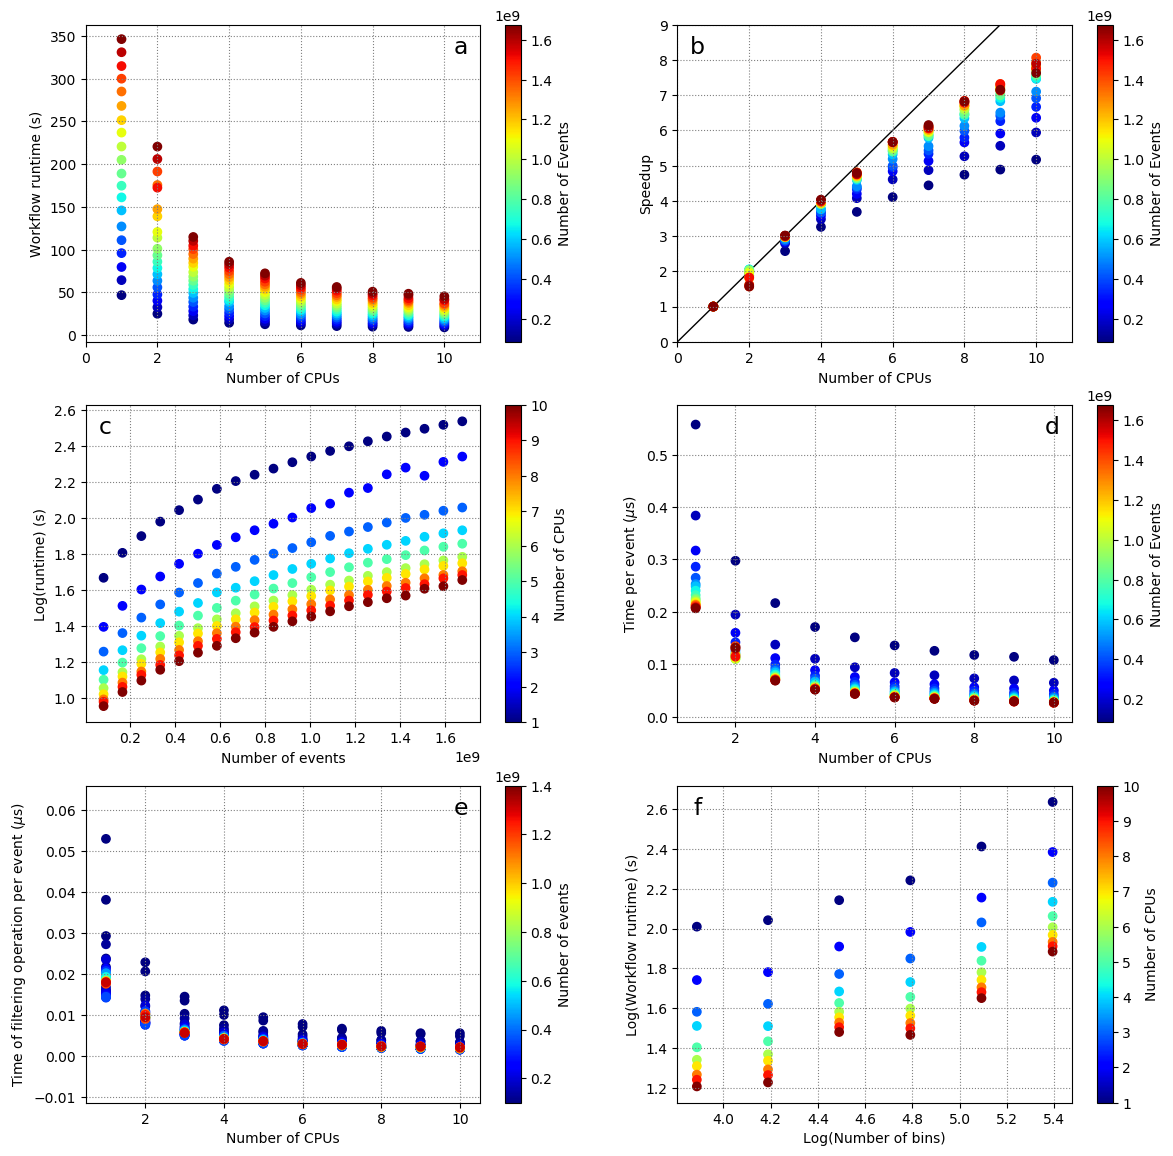
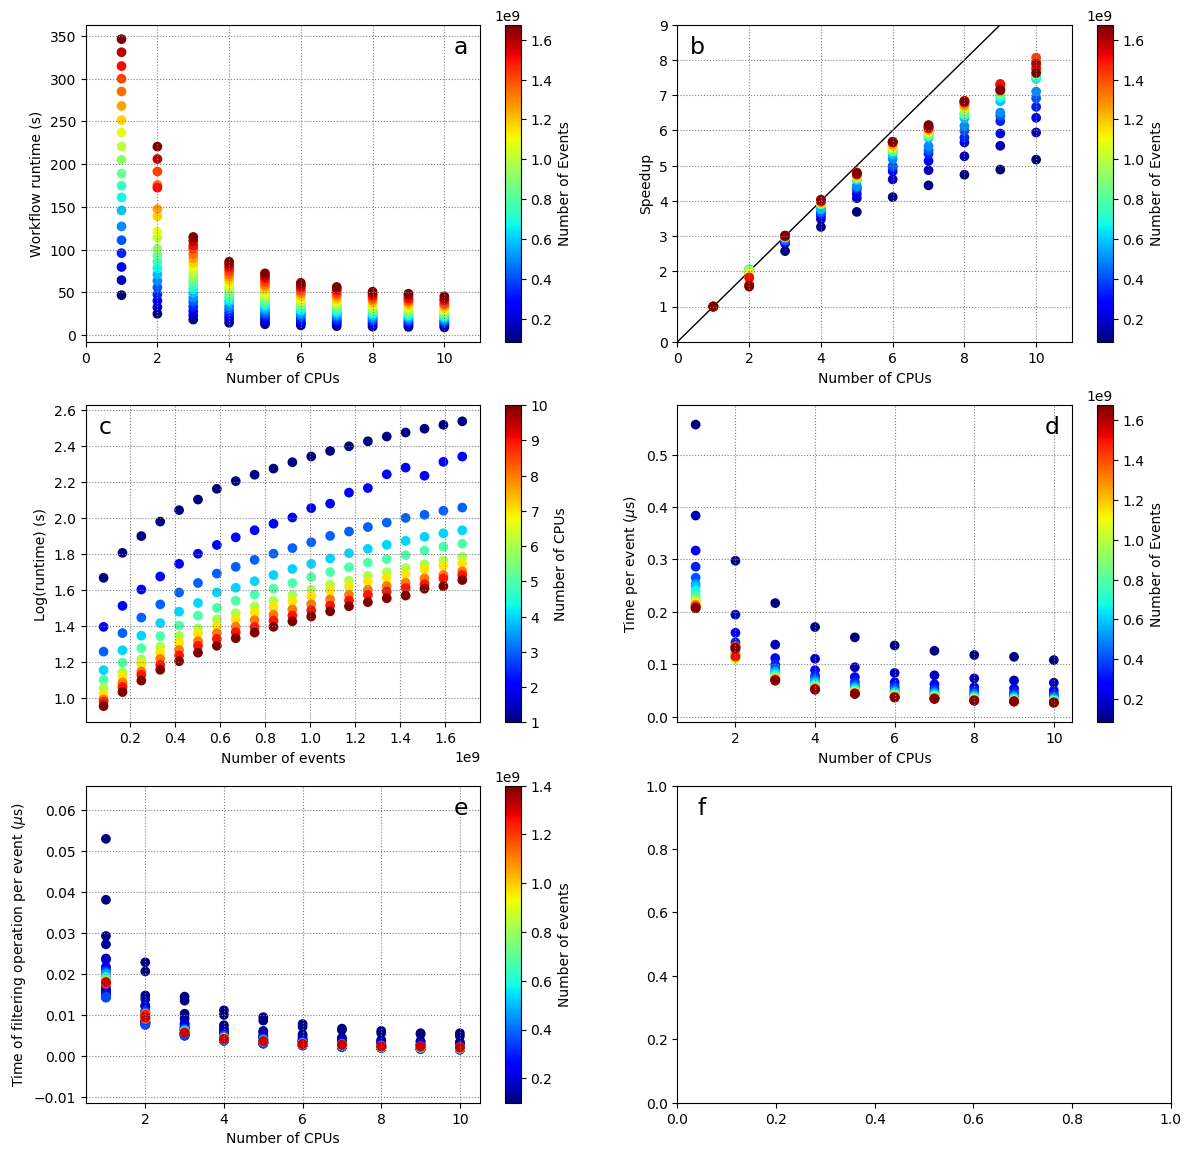
seperate figure for varying Nbins

diff --git a/benchmarks/plot_SNSPowderReduction_bench.py b/benchmarks/plot_SNSPowderReduction_bench.py
@@ -40,6 +40,8 @@ import numpy as np
 #fin.close()
 #fout.close()
 
+cmap1 = "jet"
+
 # Now load data and plot
 
 data = np.loadtxt("SNSPowderReduction_bench.txt")
@@ -63,8 +65,8 @@ ax6 = fig.add_subplot(326)
 
 Nevents = data[:,4]+data[:,5]
 
-s1 = ax1.scatter(data[:,1],data[:,3],c=Nevents,cmap='jet')
-#s1 = ax1.scatter(data[:,1],np.log10(data[:,3]),c=Nevents,cmap='jet')
+s1 = ax1.scatter(data[:,1],data[:,3],c=Nevents,cmap=cmap1)
+#s1 = ax1.scatter(data[:,1],np.log10(data[:,3]),c=Nevents,cmap=cmap1)
 ax1.set_xlim([0,11])
 ax1.set_xlabel("Number of CPUs")
 ax1.set_ylabel("Workflow runtime (s)")
@@ -84,7 +86,7 @@ for j in range(fact_max):
 #maxfact = int(np.amax(data[:,2]))
 #print time0
 
-s2 = ax2.scatter(data[:,1],time0/data[:,3],c=Nevents,cmap='jet')
+s2 = ax2.scatter(data[:,1],time0/data[:,3],c=Nevents,cmap=cmap1)
 ax2.plot([0,11],[0,11],color='k',zorder=-5,lw=1,label="ideal")
 cb2 = plt.colorbar(s2,ax=ax2)
 cb2.ax.set_ylabel("Number of Events")
@@ -100,8 +102,8 @@ ax2.set_ylabel("Speedup")
 
 
 
-sc = ax3.scatter(Nevents,np.log10(data[:,3]),c=data[:,1],cmap='jet')
-#sc = ax3.scatter(Nevents,data[:,3],c=data[:,1],cmap='jet')
+sc = ax3.scatter(Nevents,np.log10(data[:,3]),c=data[:,1],cmap=cmap1)
+#sc = ax3.scatter(Nevents,data[:,3],c=data[:,1],cmap=cmap1)
 ax3.set_xlabel("Number of events")
 ax3.set_ylabel("Log(runtime) (s)")
 cb3 = plt.colorbar(sc,ax=ax3)
@@ -109,15 +111,15 @@ cb3.ax.set_ylabel("Number of CPUs")
 
 #print data[:,3]/data[:,4]
 
-sa = ax4.scatter(data[:,1],1.0e6*data[:,3]/Nevents,c=Nevents,cmap='jet')
+sa = ax4.scatter(data[:,1],1.0e6*data[:,3]/Nevents,c=Nevents,cmap=cmap1)
 #sb = ax4.scatter(data[:,1],1.0e6*data[:,3]/data[:,5],color='b')
 ax4.set_xlabel("Number of CPUs")
 ax4.set_ylabel(r"Time per event ($\mu$s)")
 cb4 = plt.colorbar(sa,ax=ax4)
 cb4.ax.set_ylabel("Number of Events")
 
-s5 = ax5.scatter(data[:,1],1.0e6*data[:,6]/data[:,4],c=data[:,4],vmin=0.1e9,vmax=1.4e9,cmap='jet')
-ax5.scatter(data[:,1],1.0e6*data[:,7]/data[:,5],c=data[:,5],vmin=0.1e9,vmax=1.4e9,cmap='jet')
+s5 = ax5.scatter(data[:,1],1.0e6*data[:,6]/data[:,4],c=data[:,4],vmin=0.1e9,vmax=1.4e9,cmap=cmap1)
+ax5.scatter(data[:,1],1.0e6*data[:,7]/data[:,5],c=data[:,5],vmin=0.1e9,vmax=1.4e9,cmap=cmap1)
 #sb = ax4.scatter(data[:,1],1.0e6*data[:,3]/data[:,5],color='b')
 ax5.set_xlabel("Number of CPUs")
 ax5.set_ylabel(r"Time of filtering operation per event ($\mu$s)")
@@ -127,19 +129,20 @@ cb5.ax.set_ylabel("Number of events")
 
 
 
-s6 = ax6.scatter(np.log10(binData[:,3]),np.log10(binData[:,2]),c=binData[:,1],cmap='jet')
-#s1 = ax1.scatter(data[:,1],np.log10(data[:,3]),c=Nevents,cmap='jet')
-#ax6.set_xlim([0,11])
-#ax6.set_xscale("log", nonposx='clip')
-#ax6.set_yscale("log", nonposy='clip')
-ax6.set_xlabel("Log(Number of bins)")
-ax6.set_ylabel("Log(Workflow runtime) (s)")
-#ax1.set_ylabel("Log(runtime) (s)")
-cb6 = plt.colorbar(s6,ax=ax6)
-cb6.ax.set_ylabel("Number of CPUs")
+#s6 = ax6.scatter(np.log10(binData[:,3]),np.log10(binData[:,2]),c=binData[:,1],cmap=cmap1)
+##s1 = ax1.scatter(data[:,1],np.log10(data[:,3]),c=Nevents,cmap=cmap1)
+##ax6.set_xlim([0,11])
+##ax6.set_xscale("log", nonposx='clip')
+##ax6.set_yscale("log", nonposy='clip')
+#ax6.set_xlabel("Log(Number of bins)")
+#ax6.set_ylabel("Log(Workflow runtime) (s)")
+##ax1.set_ylabel("Log(runtime) (s)")
+#cb6 = plt.colorbar(s6,ax=ax6)
+#cb6.ax.set_ylabel("Number of CPUs")
 
 
-
+#for i in range(np.shape(binData)[0]):
+    #print((binData[i,3]/binData[i,2])/binData[i,1],"bins/s/core",binData[i,3],binData[i,2])
 
 
 
@@ -151,7 +154,7 @@ ax2.grid(True,color='gray',linestyle='dotted')
 ax3.grid(True,color='gray',linestyle='dotted')
 ax4.grid(True,color='gray',linestyle='dotted')
 ax5.grid(True,color='gray',linestyle='dotted')
-ax6.grid(True,color='gray',linestyle='dotted')
+#ax6.grid(True,color='gray',linestyle='dotted')
 
 lsize=17
 xlab1 = 0.05
@@ -170,9 +173,41 @@ fig.savefig("SNSPowderReduction_bench.png",bbox_inches="tight")
 
 
 
+fig.clear()
+
+ratio = 0.3
+sizex = 14.0
+fig.set_size_inches(sizex,ratio*sizex)
+ax6 = fig.add_subplot(121)
+ax7 = fig.add_subplot(122)
 
 
 
+s6 = ax6.scatter(np.log10(binData[:,3]),np.log10(binData[:,2]),c=binData[:,1],cmap=cmap1)
+#s1 = ax1.scatter(data[:,1],np.log10(data[:,3]),c=Nevents,cmap=cmap1)
+#ax6.set_xlim([0,11])
+#ax6.set_xscale("log", nonposx='clip')
+#ax6.set_yscale("log", nonposy='clip')
+ax6.set_xlabel("Log(Number of bins)")
+ax6.set_ylabel("Log(Workflow runtime) (s)")
+#ax1.set_ylabel("Log(runtime) (s)")
+cb6 = plt.colorbar(s6,ax=ax6)
+cb6.ax.set_ylabel("Number of CPUs")
+
+
+s7 = ax7.scatter(np.log10(binData[:,3]),(binData[:,3]/binData[:,2])/binData[:,1],c=binData[:,1],cmap=cmap1)
+ax7.set_xlabel("Log(Number of bins)")
+ax7.set_ylabel("bins/s/core")
+cb7 = plt.colorbar(s7,ax=ax7)
+cb7.ax.set_ylabel("Number of CPUs")
+
+ax6.grid(True,color='gray',linestyle='dotted')
+ax7.grid(True,color='gray',linestyle='dotted')
+ax6.text(xlab1,ylab,'a',ha='center',va='center',fontsize=lsize,transform = ax6.transAxes)
+ax7.text(xlab1,ylab,'b',ha='center',va='center',fontsize=lsize,transform = ax7.transAxes)
+
+
+fig.savefig("SNSPowderReduction_bins.png",bbox_inches="tight")
 
 
 
@@ -247,7 +282,7 @@ for j in sort:
 
 
 
-s9 = ax1.scatter(list_x,list_y,c=list_z,cmap='jet')
+s9 = ax1.scatter(list_x,list_y,c=list_z,cmap=cmap1)
 ax1.set_xlabel("Percentage of total time")
 ax1.set_yticklabels([])
 cbaxes = fig.add_axes([0.0, 1.02, 1.0, 0.018])
@@ -261,7 +296,7 @@ ax1.set_xlim([xmin1,xmax1])
 
 
 
-s8 = ax2.scatter(np.log10(list_x),list_y,c=list_z,cmap='jet')
+s8 = ax2.scatter(np.log10(list_x),list_y,c=list_z,cmap=cmap1)
 ax2.set_xlabel("log(Percentage of total time)")
 ax2.set_yticklabels([])
 cbaxes2 = fig.add_axes([1.05, 1.02, 1.0, 0.018])

diff --git a/benchmarks/SNSPowderReduction_bench.md b/benchmarks/SNSPowderReduction_bench.md
@@ -23,8 +23,6 @@ the `FilterBadPulses` algorithm. This was then simply divided by the number of e
 
 The number of bins for panels (a)-(e) was 7728.
 
-Panel (f) shows the dependence of the workflow runtime on the number of bins, from 7728 to 247284.
-
 The table containing the data (for just 7728 bins) is `SNSPowderReduction_bench.txt`:
 
 ```
@@ -55,6 +53,17 @@ The columns represent (in order):
 6: Time for filtering bad pulses from 77777 file  
 7: Time for filtering bad pulses from 88888 file  
 8: Time for filtering bad pulses from 99999 file  
+
+
+### Varying the number of bins
+
+![Figure 2](https://raw.githubusercontent.com/nvaytet/data-reduction-hardware-requirements/master/benchmarks/SNSPowderReduction_bins.png)
+
+Panel (a) shows the dependence of the workflow runtime on the number of bins, from 7728 to 247284.
+Panel (b) shows the number of bins processes per second per core (using the total workflow
+runtime). **This probably should be improved by using the time spent working with histograms 
+rather than total workflow time.
+
 
 The table containing the variable number of bins data is `SNSPowderReduction_bins_bench.txt`.
 
